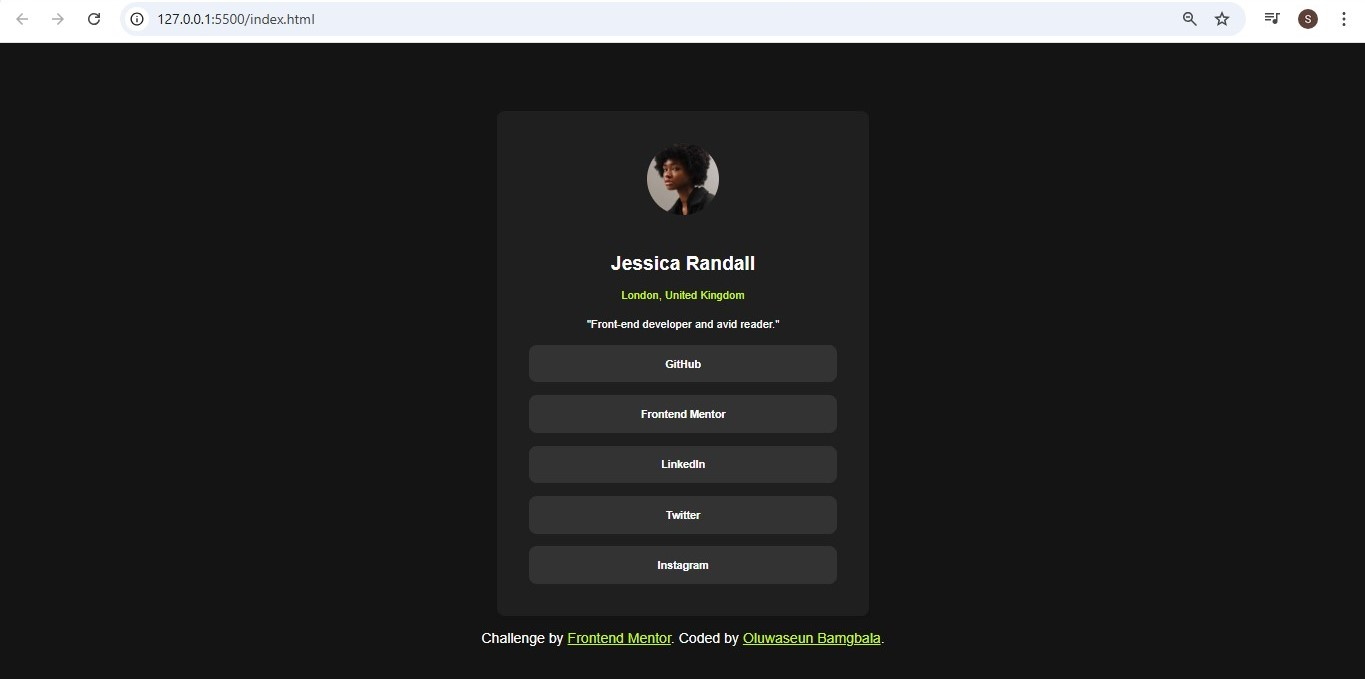
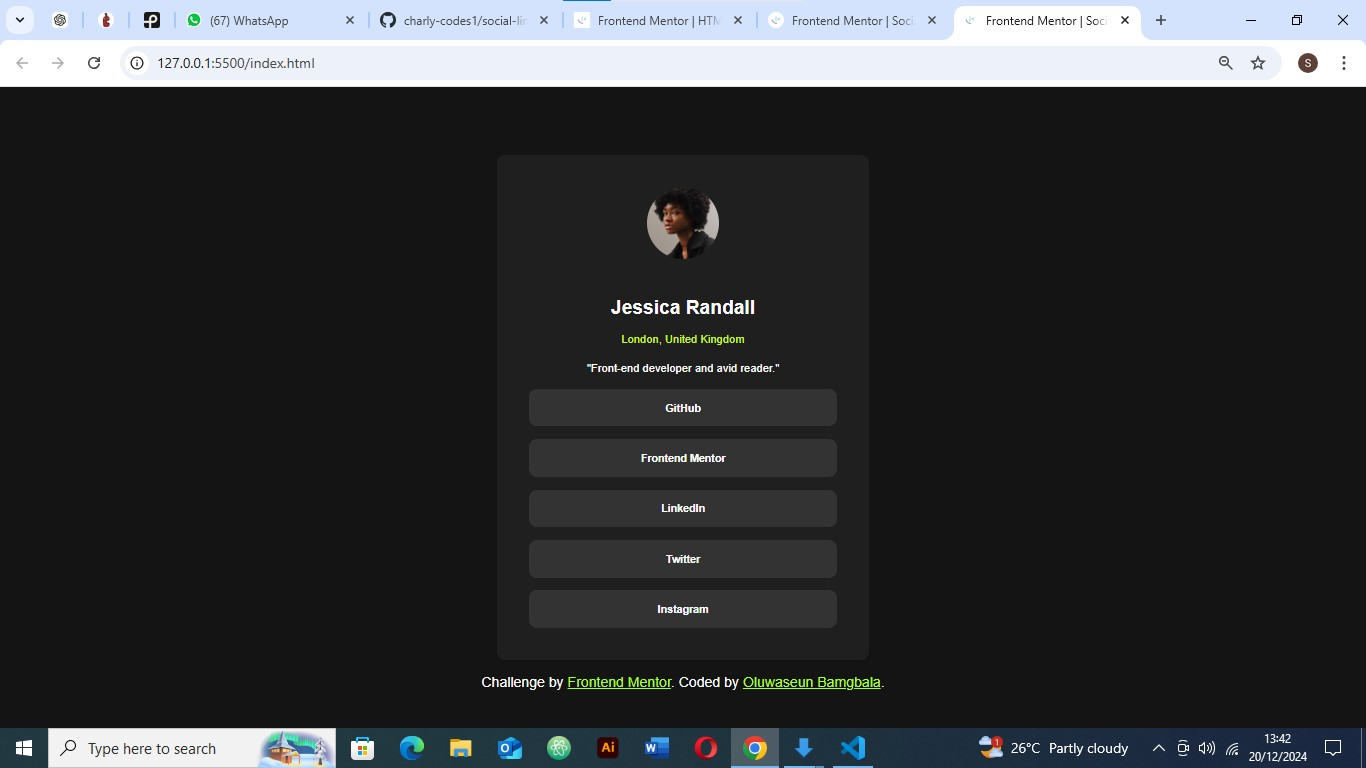
add new feature

diff --git a/css/style.css b/css/style.css
@@ -68,9 +68,9 @@ body {
     }
     
     .columns button:hover {
-    background-color: #c5f82a;
+    background-color: yellowgreen;
     color: #141414;
-    box-shadow: 0 0 10px #c5f82a;
+    box-shadow: 0 0 10px yellowgreen;
     }
     
     /* Responsive Adjustments */
@@ -98,5 +98,5 @@ body {
     }
     
     .attribution a {
-        color: #c5f82a;
+        color:greenyellow
     }
